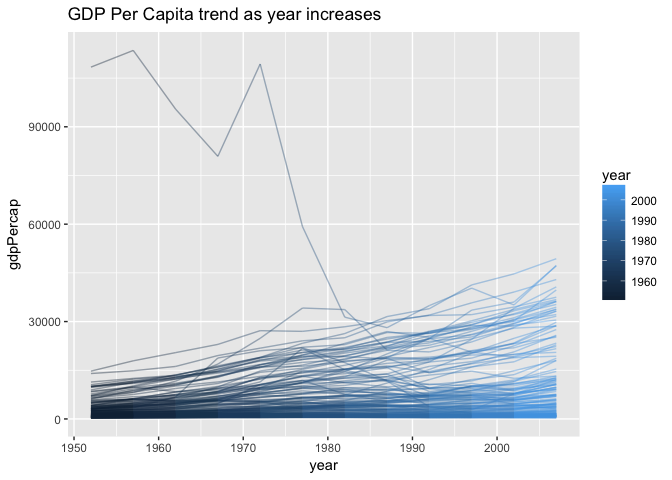
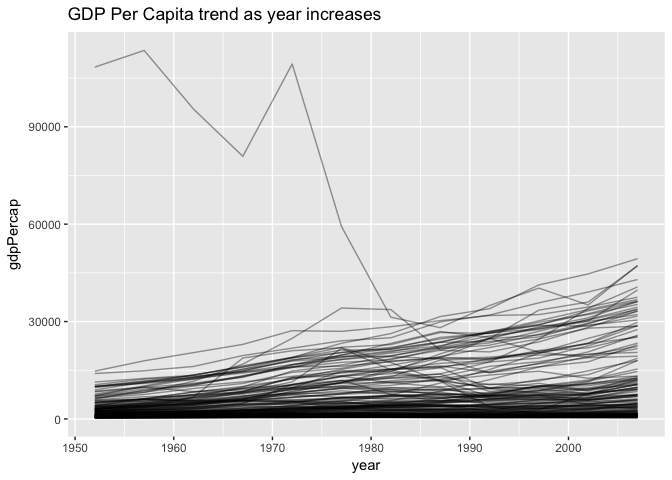
revise the plot

diff --git a/HW5/HW5.md b/HW5/HW5.md
@@ -516,7 +516,7 @@ Before
 
 ``` r
 ggplot(gapminder, aes(x= year, y = gdpPercap, group= country)) + 
-  geom_line(alpha = 0.4, aes(color = year)) +
+  geom_line(alpha = 0.4) +
   ggtitle("GDP Per Capita trend as year increases")
 ```
 
@@ -527,7 +527,7 @@ After
 ``` r
 color_layer <- scale_color_manual("", #title of the legend
                                   labels = c("Other Counbtries", "Kuwait"), 
-                                  values = c("black", "red"))
+                                  values = c(brewer.pal(n=2, "Dark2")))
 
 ggplot(gapminder, aes(x= year, y = gdpPercap, group = country)) + 
   geom_line(aes(group = country, 
@@ -538,6 +538,8 @@ ggplot(gapminder, aes(x= year, y = gdpPercap, group = country)) +
                        guide = FALSE) +
   ggtitle("GDP Per Capita trend as year increases")
 ```
+
+    ## Warning in brewer.pal(n = 2, "Dark2"): minimal value for n is 3, returning requested palette with 3 different levels
 
 ![](HW5_files/figure-markdown_github-ascii_identifiers/unnamed-chunk-17-1.png)
 
